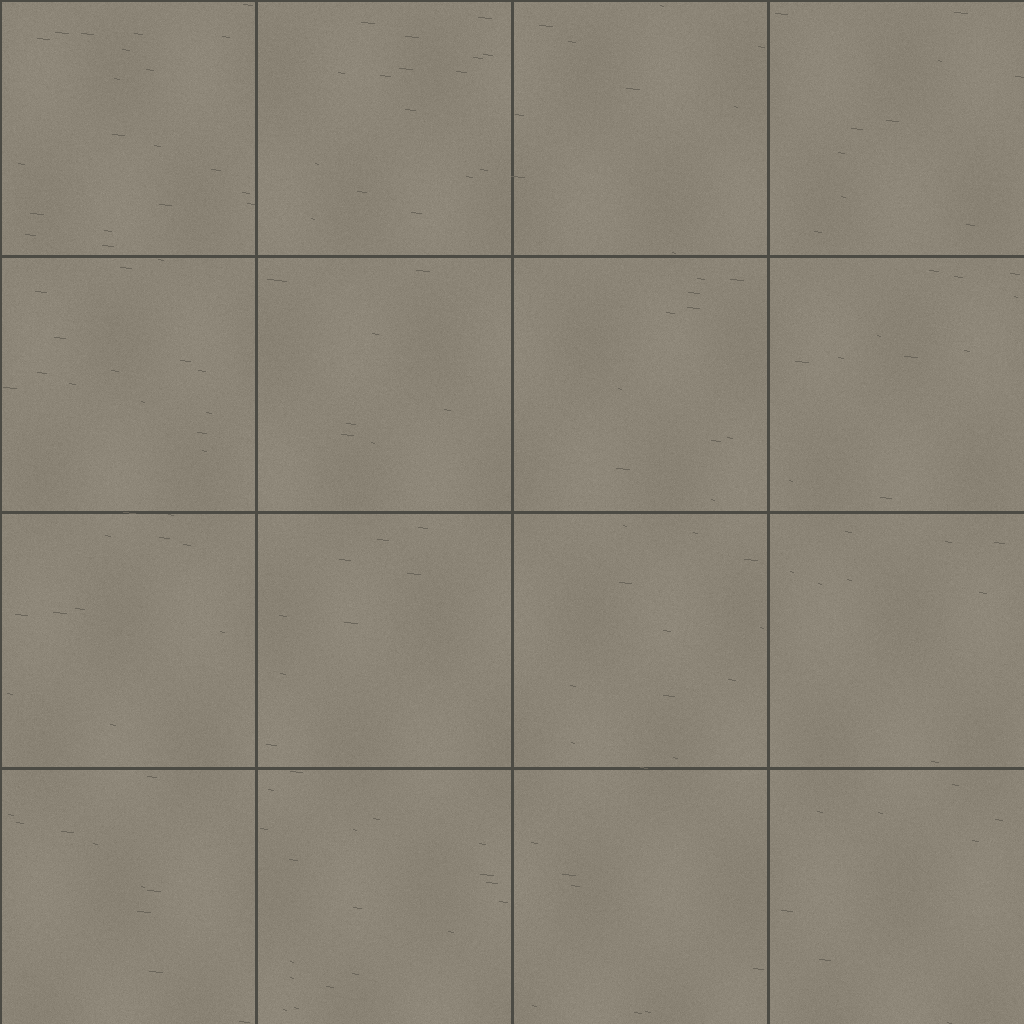
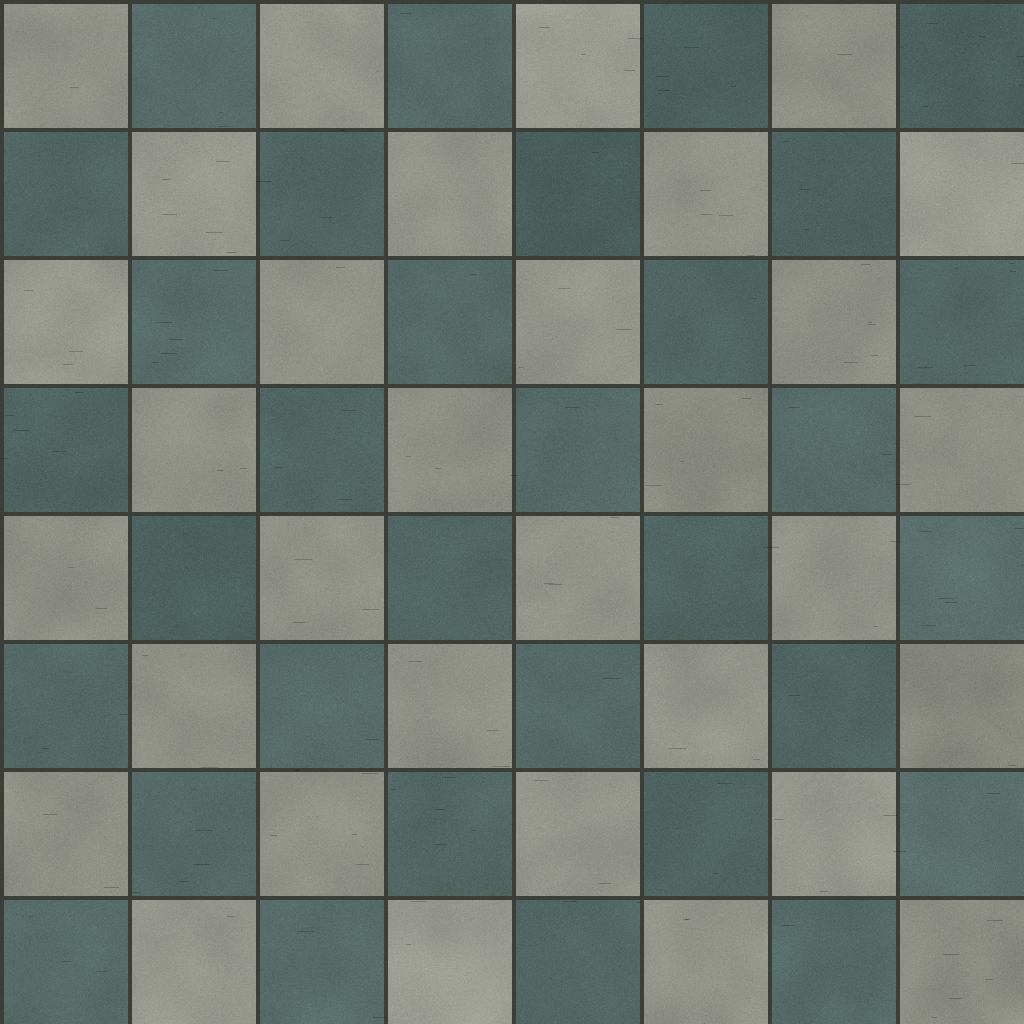
checkered teal store floor

diff --git a/tools/textures/checker_floor.py b/tools/textures/checker_floor.py
@@ -1,0 +1,38 @@
+"""Teal/grey checkered store floor. Replaces only the tile albedo and normal maps (Pillow + numpy)."""
+from PIL import Image, ImageFilter
+from pathlib import Path
+import numpy as np
+ROOT = Path(__file__).resolve().parents[2]
+SIZE, CELL, GROUT = 1024, 128, 4
+rng = np.random.default_rng(12)
+yy, xx = np.mgrid[0:SIZE, 0:SIZE]
+check = ((xx // CELL) + (yy // CELL)) % 2
+dark = np.array([86, 108, 104], float)
+light = np.array([150, 152, 142], float)
+img = np.where(check[..., None] == 1, dark, light)
+# per-tile tone drift, broad stains, fine grain
+tile_tone = rng.normal(0, 5, (SIZE // CELL, SIZE // CELL))
+img += np.kron(tile_tone, np.ones((CELL, CELL)))[..., None]
+stain = np.asarray(Image.fromarray(rng.integers(0, 255, (64, 64), dtype=np.uint8)).resize((SIZE, SIZE), Image.Resampling.BICUBIC).filter(ImageFilter.GaussianBlur(14)), float)
+img *= (0.86 + 0.2 * (stain / 255.0))[..., None]
+img += rng.normal(0, 3.2, (SIZE, SIZE, 1))
+grout = ((xx % CELL) < GROUT) | ((yy % CELL) < GROUT)
+img[grout] = (60, 62, 56)
+scuffs = rng.integers(0, SIZE, (160, 2))
+for x, y in scuffs:
+    img[y, x:x + int(rng.integers(4, 18))] *= 0.8
+out = np.clip(img, 0, 255).astype(np.uint8)
+alpha = np.full((SIZE, SIZE, 1), 255, np.uint8)
+albedo = Image.fromarray(np.concatenate([out, alpha], axis=2), "RGBA")
+# normal map from a height field with sunken grout
+height = np.where(grout, 0.0, 1.0)
+height = np.asarray(Image.fromarray((height * 255).astype(np.uint8)).filter(ImageFilter.GaussianBlur(1.1)), float) / 255.0
+gx = np.roll(height, -1, 1) - np.roll(height, 1, 1)
+gy = np.roll(height, -1, 0) - np.roll(height, 1, 0)
+n = np.stack([-gx * 2.0, -gy * 2.0, np.ones_like(gx)], axis=2)
+n /= np.linalg.norm(n, axis=2, keepdims=True)
+normal = Image.fromarray(np.concatenate([((n * 0.5 + 0.5) * 255).astype(np.uint8), alpha], axis=2), "RGBA")
+for folder, prefix in [("assets/models", "shell_"), ("assets/materials", "")]:
+    albedo.save(ROOT / folder / f"{prefix}tile.png")
+    normal.save(ROOT / folder / f"{prefix}tile_normal.png")
+print("checker floor written")
